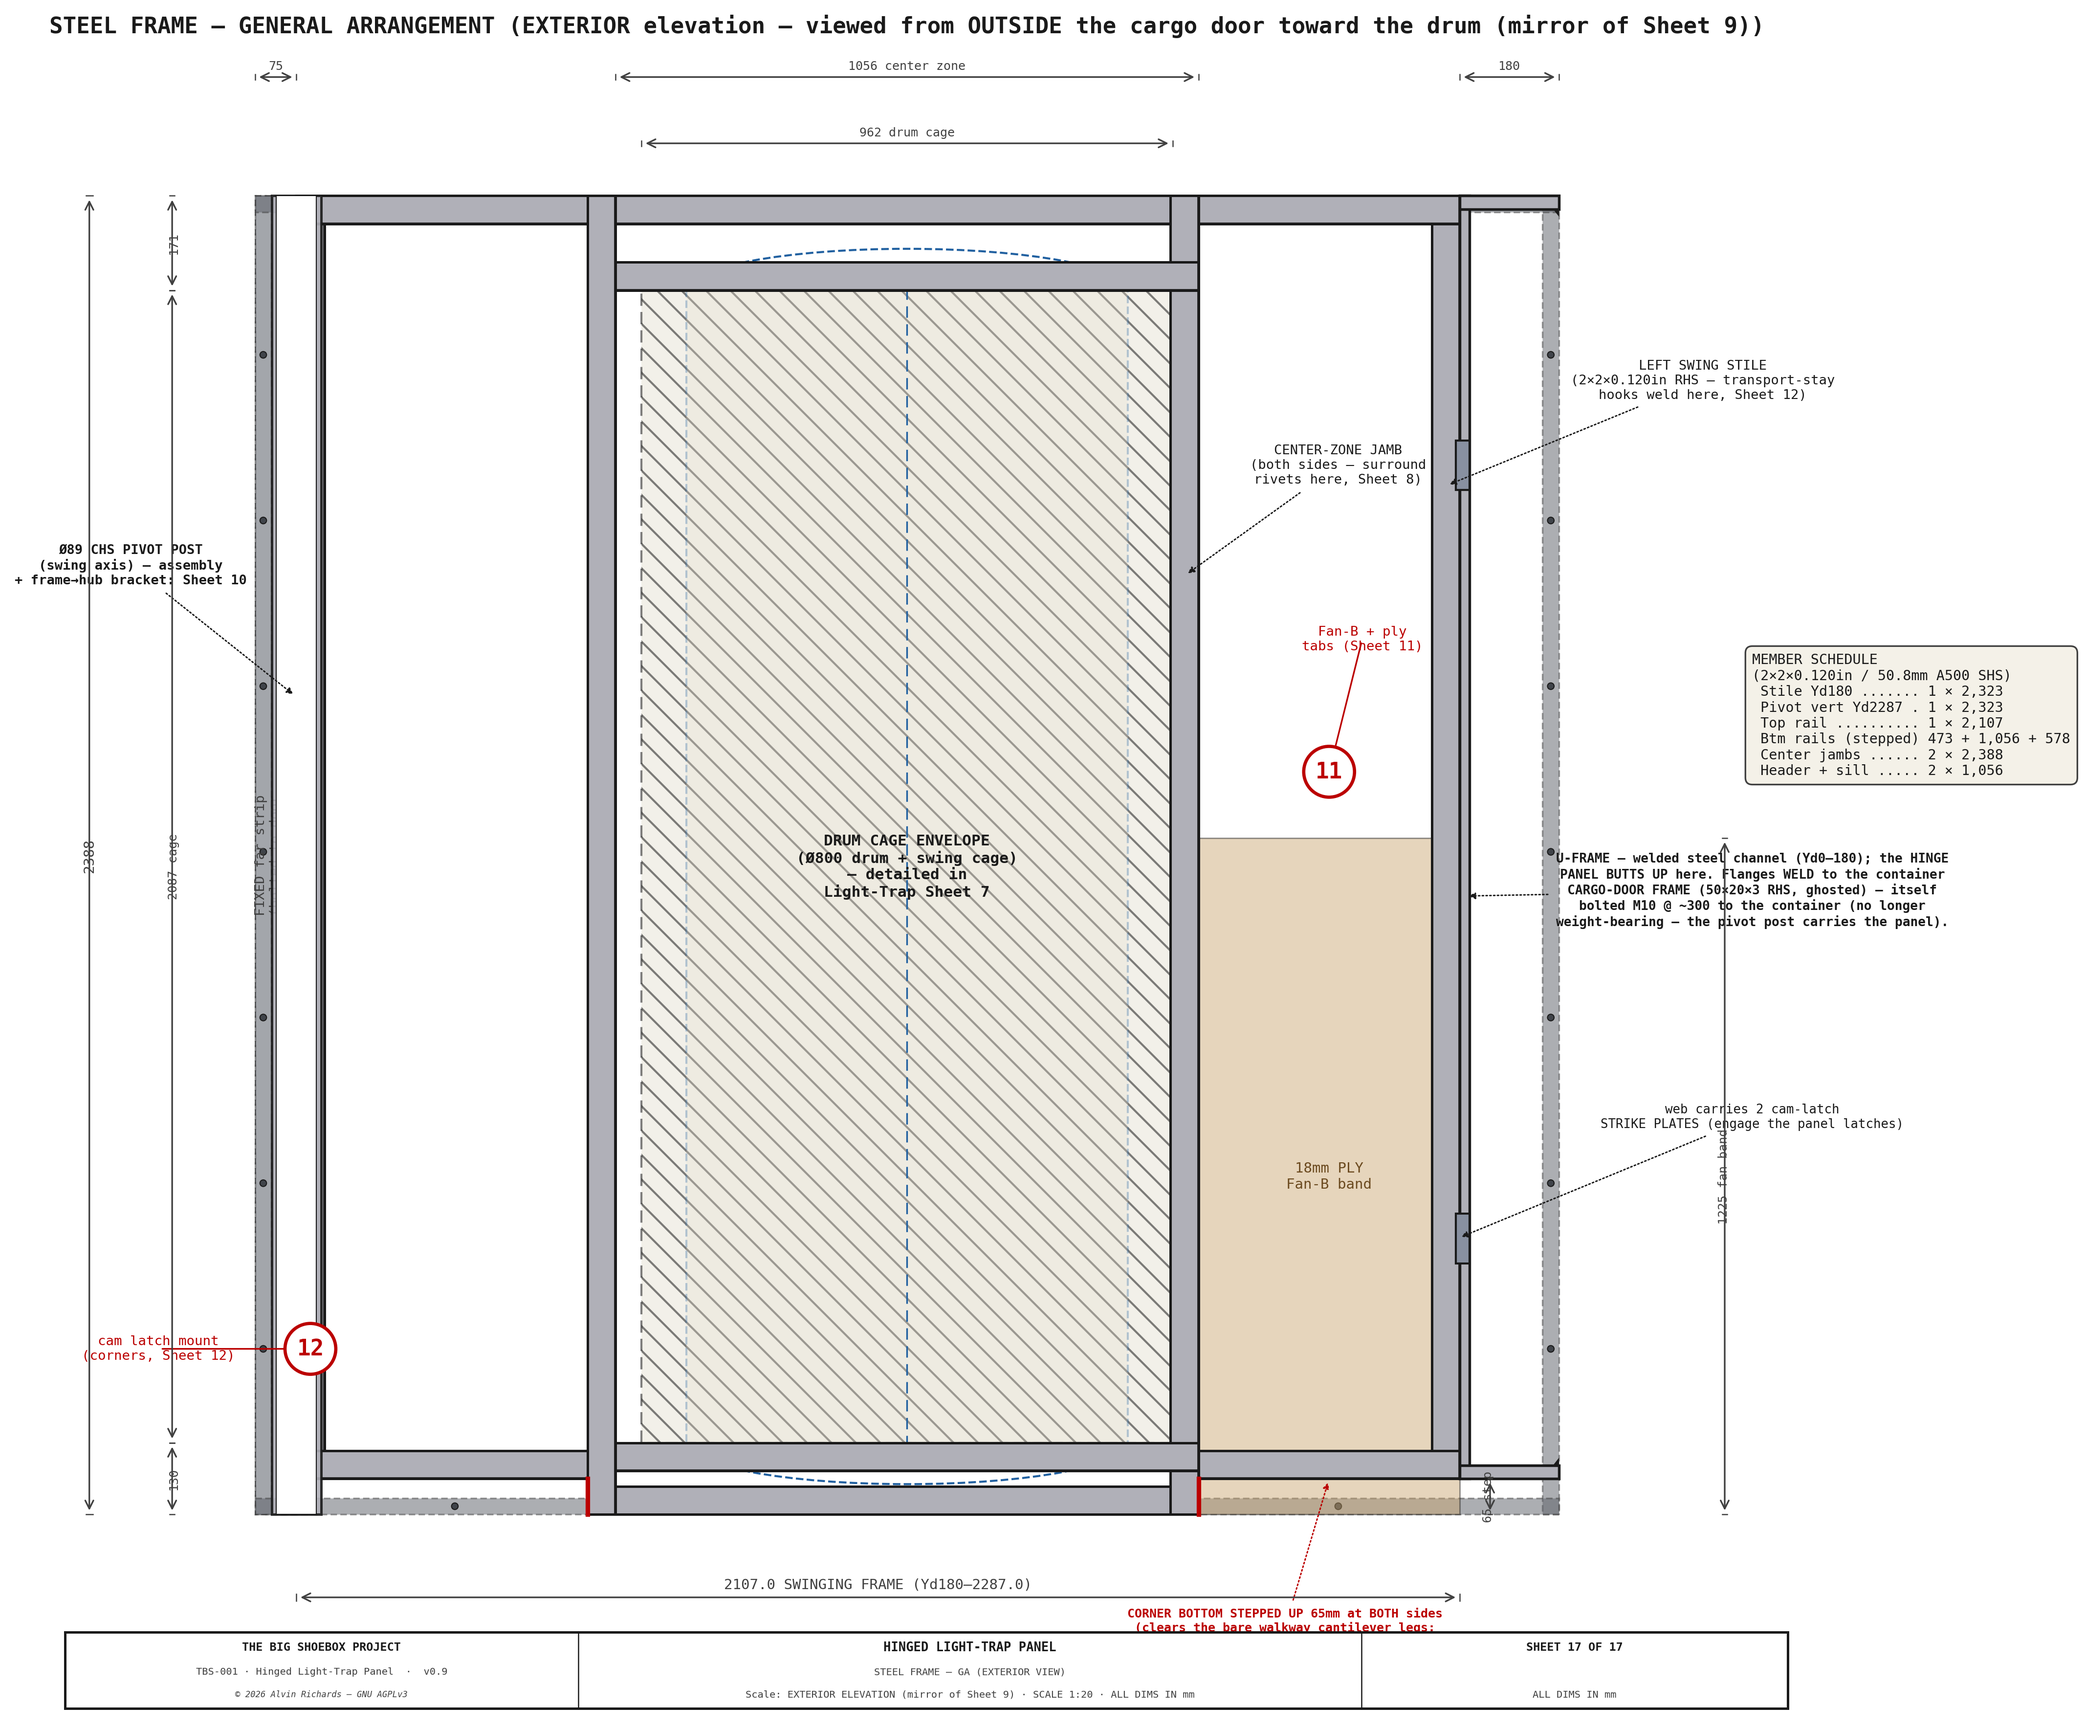
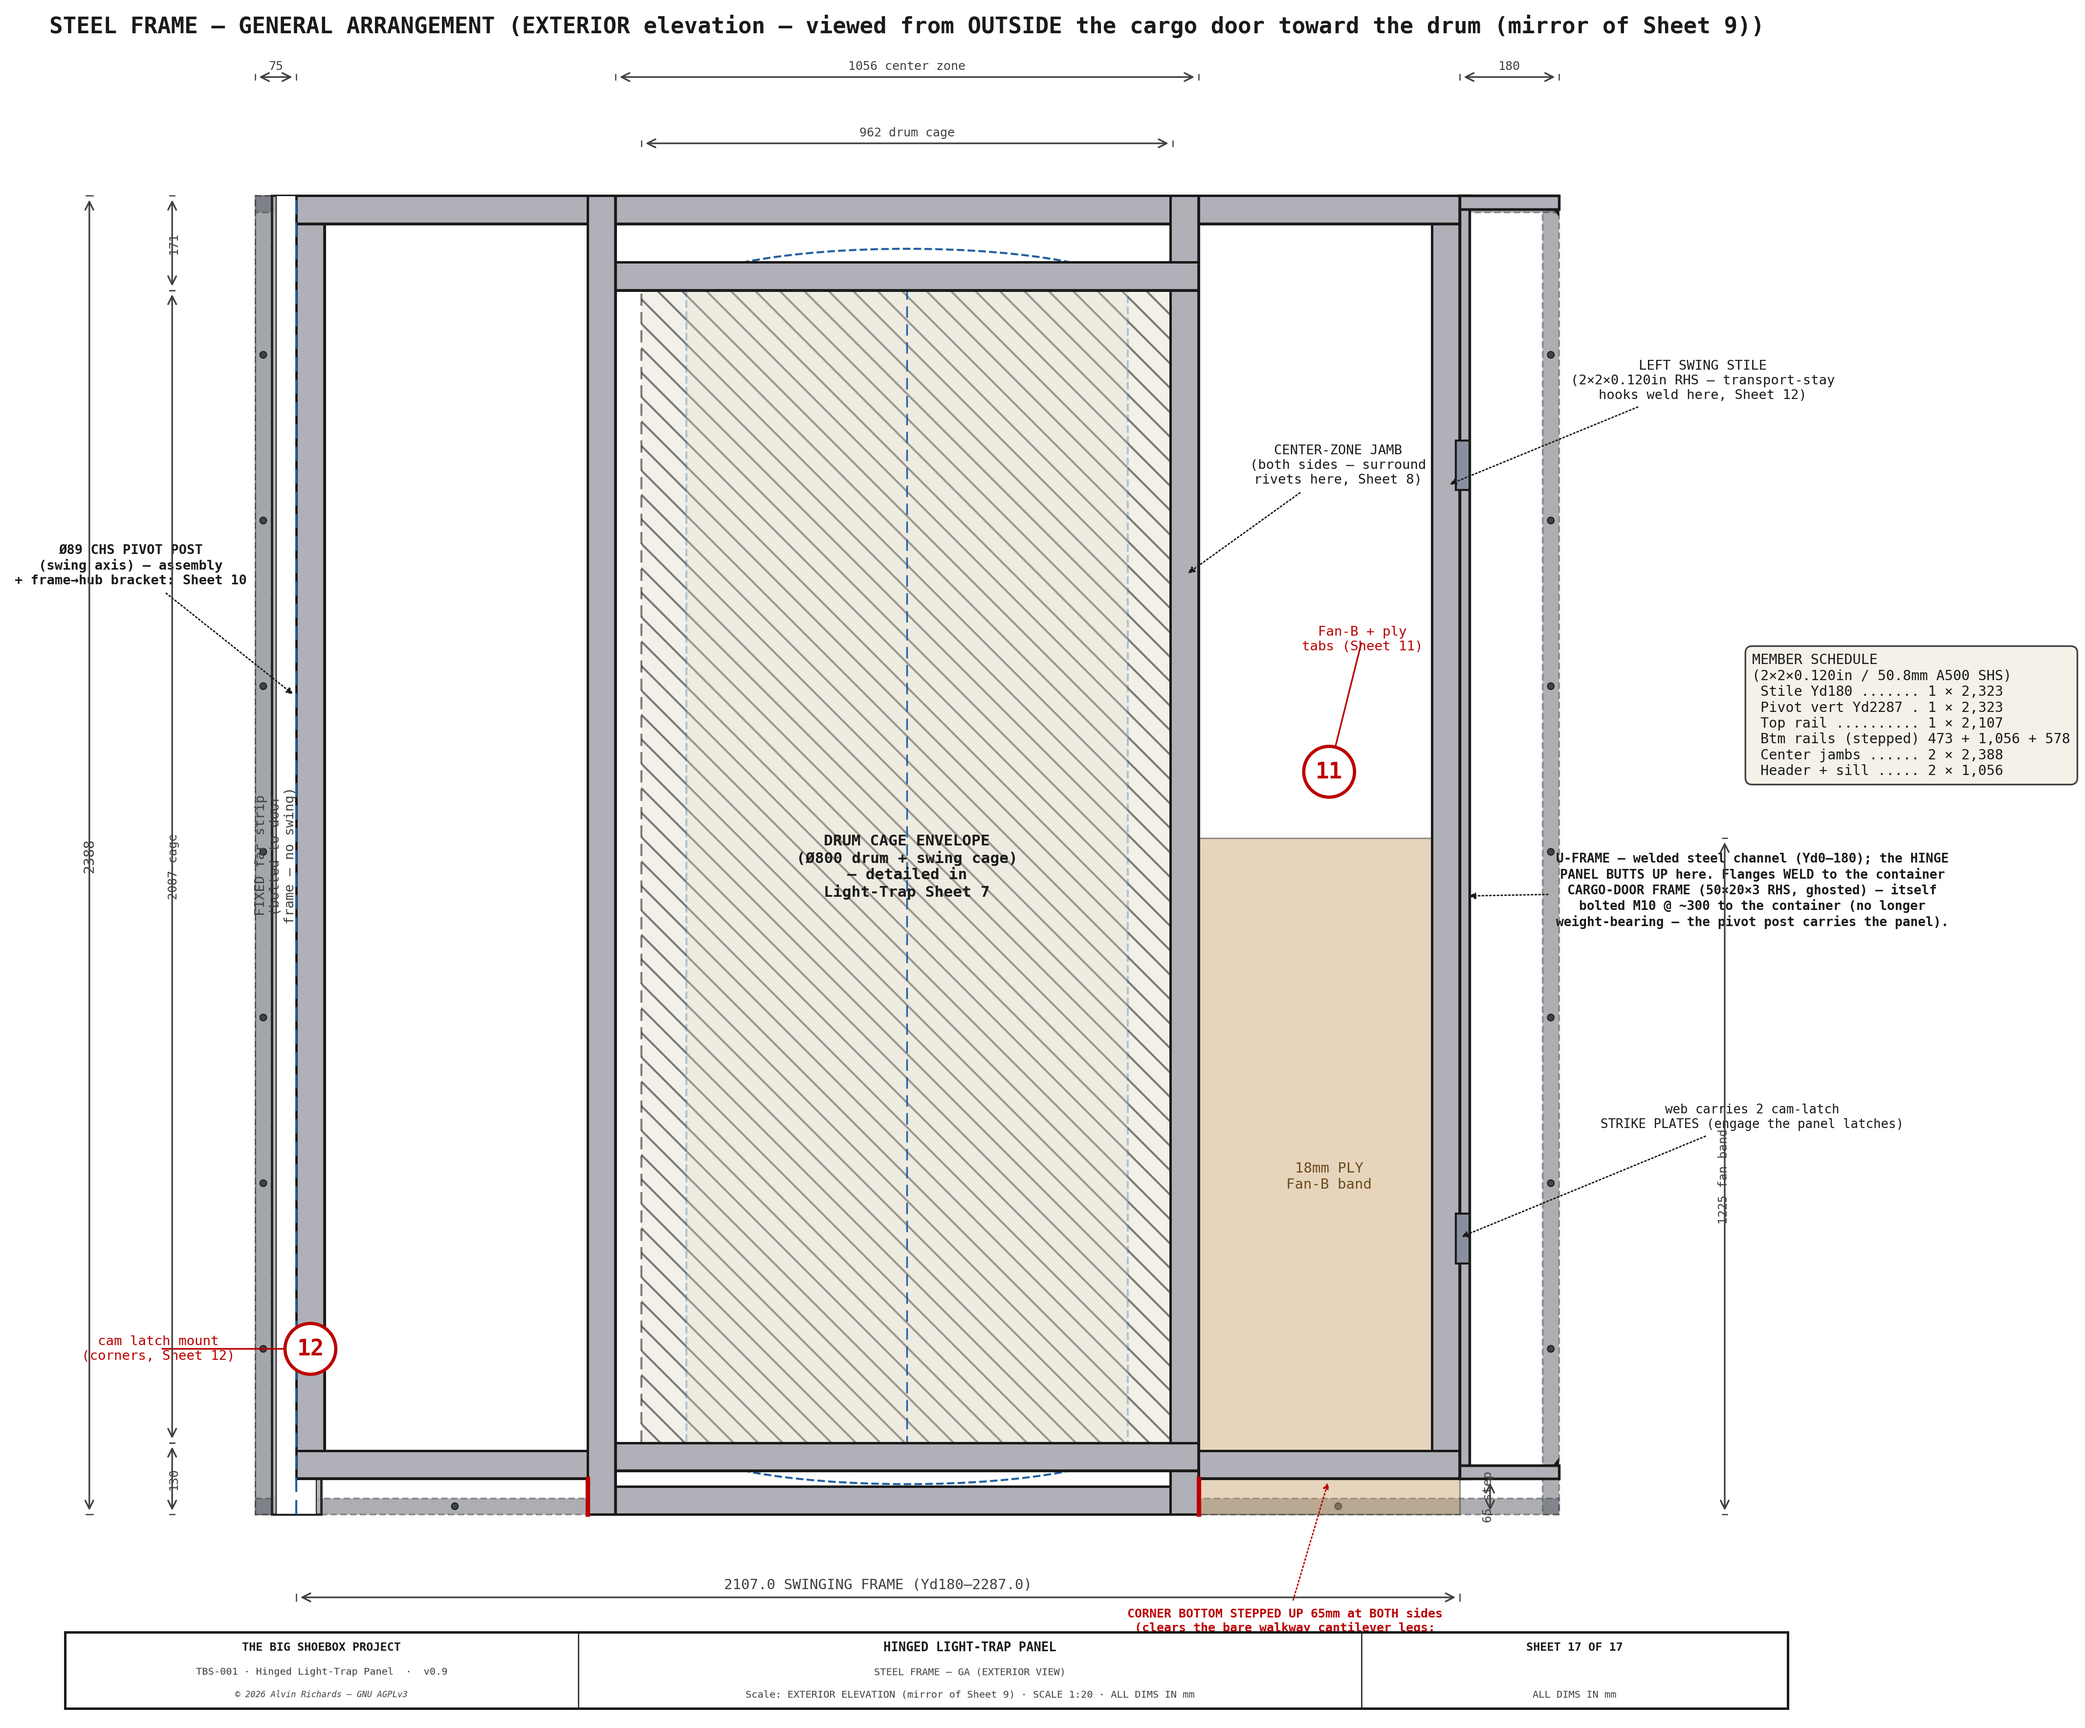
Sheet 17: pivot post behind the frame in the exterior mirror view
In the exterior view the pivot post is on the far (interior) side, so drop its zorder (7->1.6)
when mirror=True — it reads as behind the frame instead of a solid foreground tube.

Changed region(s): [[0.1247, 0.0934, 0.1559, 0.8715]]

diff --git a/src/generators/generate_hingepanel_diagram.py b/src/generators/generate_hingepanel_diagram.py
@@ -2148,8 +2148,11 @@ def sheet9(mirror=False):
            f"CORNER BOTTOM STEPPED UP {STEP}mm at BOTH sides\n(clears the bare walkway cantilever legs;\nwalkway removed for transport — Sheet 15)", col="#B00", fw="bold", fs=6)
 
     # ── pivot post (Yd = PIVOT_YD) → Sheet 10 ──
-    ax.add_patch(Rectangle((yR - PIVOT_POST_OD / 2, 0), PIVOT_POST_OD, PH, fc=C_STEEL, ec=C_OUT, lw=1.2, alpha=0.9, zorder=7))   # vertical Ø89 post (front elevation → a vertical tube)
-    ax.add_patch(Rectangle((yR - PIVOT_POST_OD / 2 + 8, 0), PIVOT_POST_OD - 16, PH, fc=BG, ec=C_OUT, lw=0.5, zorder=7))          # tube bore
+    # In the EXTERIOR mirror the post is on the FAR (interior) side → drawn BEHIND the frame; in the
+    # interior front view it is nearest the viewer → foreground.
+    pp_z = 1.6 if mirror else 7
+    ax.add_patch(Rectangle((yR - PIVOT_POST_OD / 2, 0), PIVOT_POST_OD, PH, fc=C_STEEL, ec=C_OUT, lw=1.2, alpha=0.9, zorder=pp_z))   # vertical Ø89 post (front elevation → a vertical tube)
+    ax.add_patch(Rectangle((yR - PIVOT_POST_OD / 2 + 8, 0), PIVOT_POST_OD - 16, PH, fc=BG, ec=C_OUT, lw=0.5, zorder=pp_z))          # tube bore
     ax.plot([yR, yR], [0, PH], color=C_CL, lw=1.0, ls=(0, (7, 4)), zorder=6)
     leader(ax, (yR, PH * 0.62), (yR + 300, PH * 0.72),
            "Ø89 CHS PIVOT POST\n(swing axis) — assembly\n+ frame→hub bracket: Sheet 10", col=C_OUT, fw="bold")
